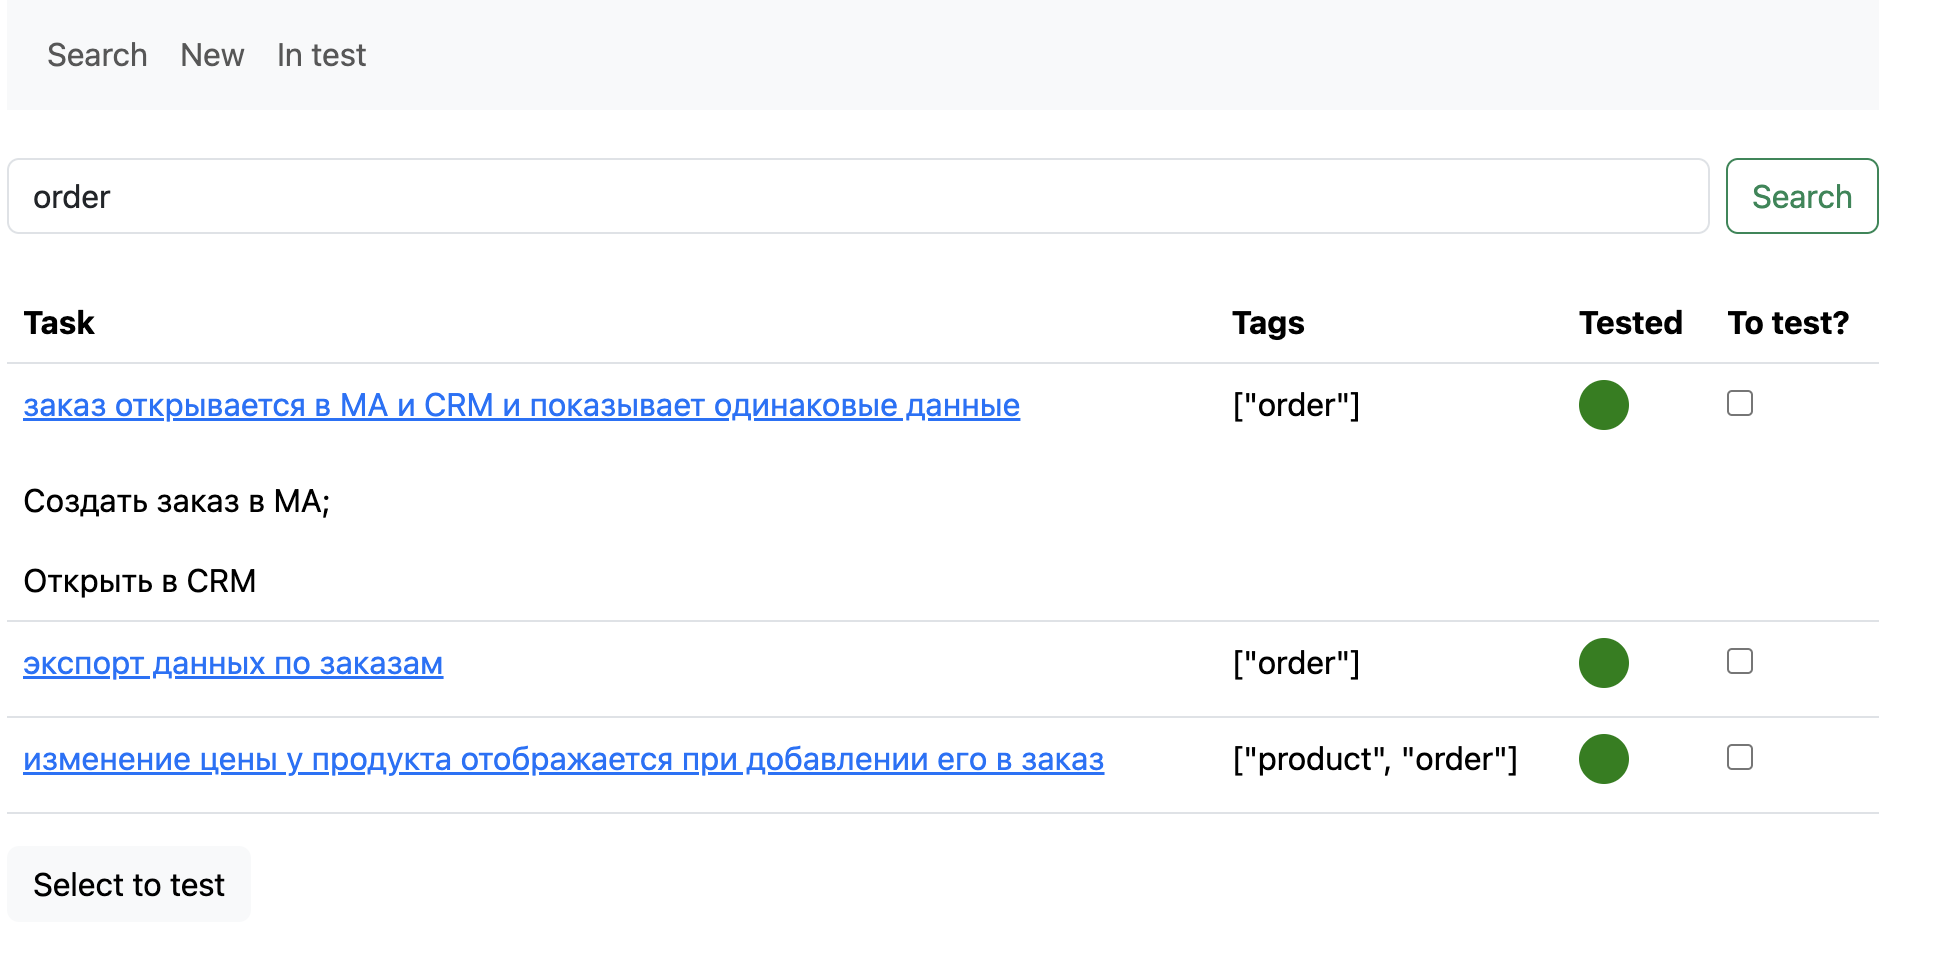
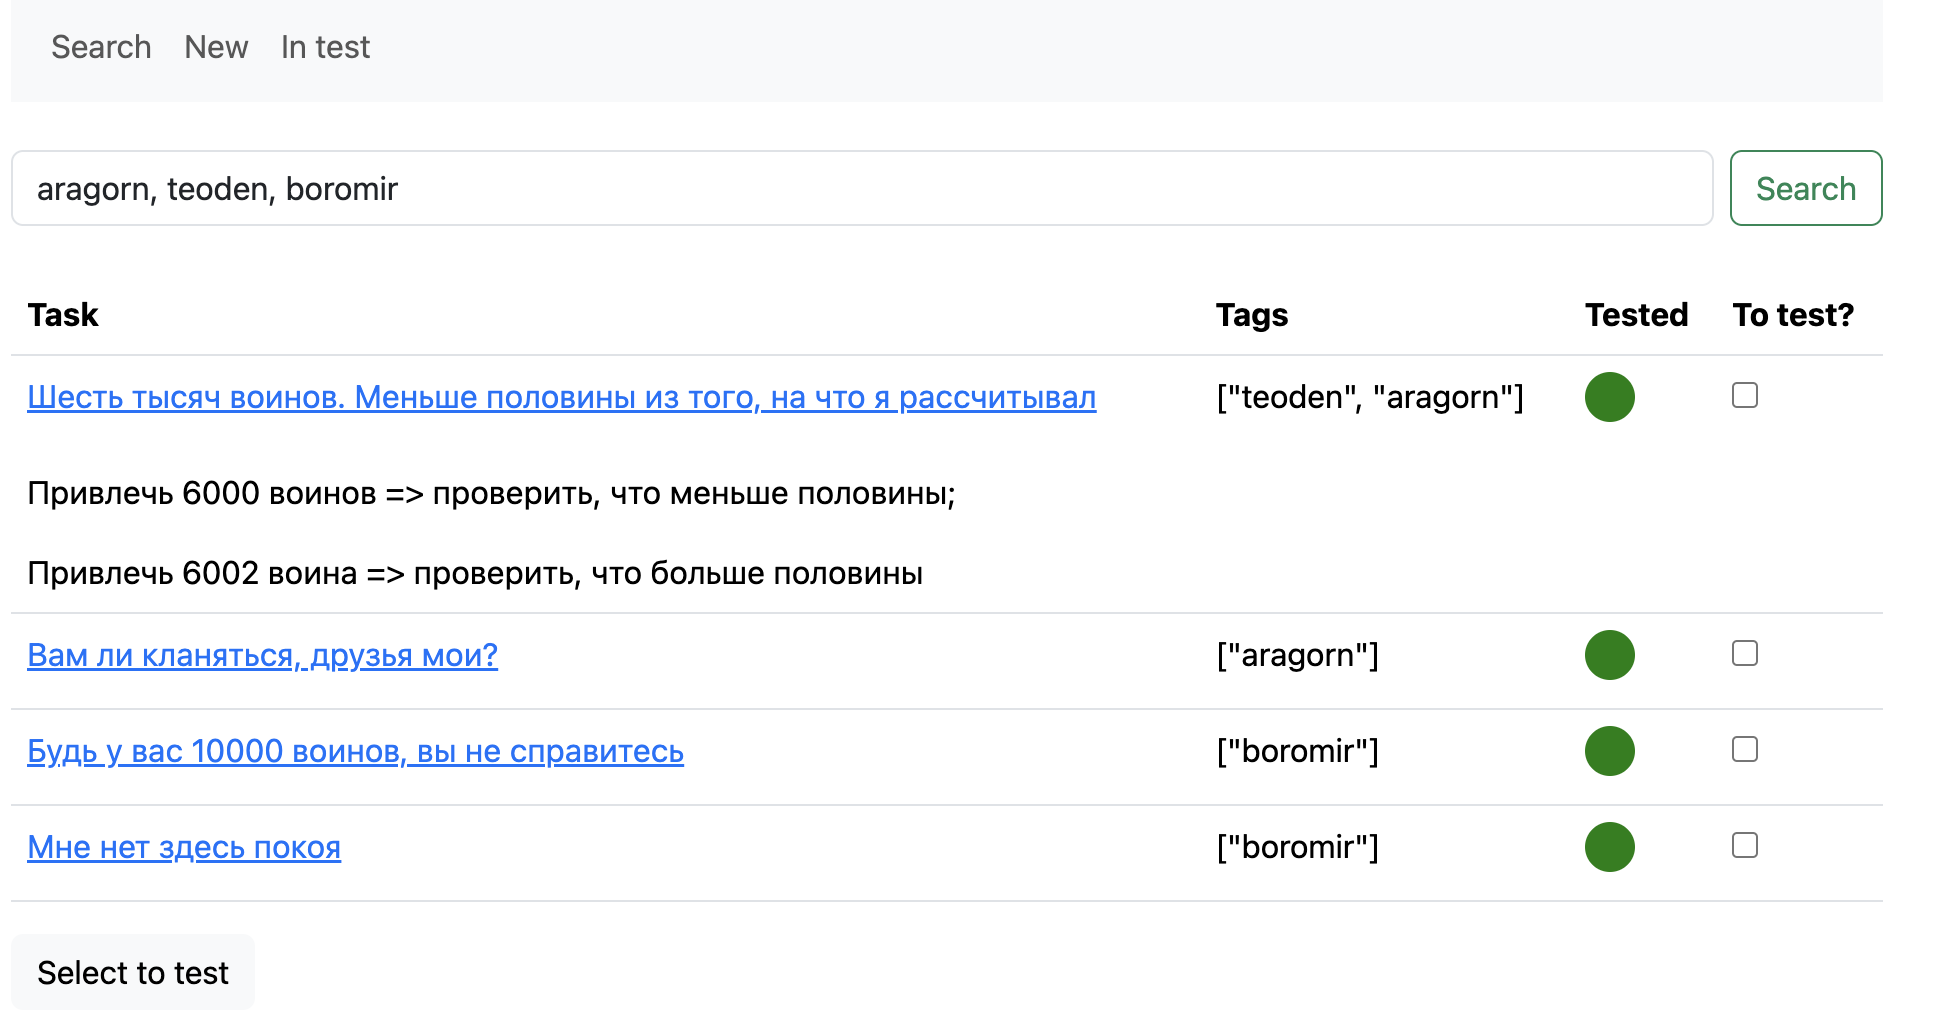
readme

diff --git a/db/seeds.rb b/db/seeds.rb
@@ -7,32 +7,33 @@
 #   Character.create(name: "Luke", movie: movies.first)
 
 CheckItem.new(
-  item_to_check: 'заказ открывается в МА и CRM и показывает одинаковые данные',
-  test_case: "Создать заказ в MA;\nОткрыть в CRM",
+  item_to_check: 'Будь у вас 10000 воинов, вы не справитесь',
+  test_case: "Привлечь 9999 воинов => проверить, что не справимся;\nПривлечь 10000 воинов => проверить, что не справимся;\nПривлечь большее количество воинов => проверить, что справимся",
   to_test: false
 ).save
 CheckItem.new(
-  item_to_check: 'экспорт данных по заказам',
-  test_case: "Отфильтровать;\nЭкспортировать;\nВ отчёте всё ок",
+  item_to_check: 'Шесть тысяч воинов. Меньше половины из того, на что я рассчитывал',
+  test_case: "Привлечь 6000 воинов => проверить, что меньше половины;\nПривлечь 6002 воина => проверить, что больше половины",
   to_test: false
 ).save
 CheckItem.new(
-  item_to_check: 'изменение цены у продукта отображается при добавлении его в заказ',
-  test_case: "Изменить цену у продукта в МА;\nСоздать заказ и добавить туда продукт;\nУбдиться, что у него соответствующая цена",
+  item_to_check: 'Мне нет здесь покоя',
+  test_case: "Находясь здесь, убедиться, что покоя нет;\nПерейти в другое место, убедиться, что покой есть",
   to_test: false
 ).save
 CheckItem.new(
-  item_to_check: 'продукт создаётся и виден как в МА так и в CRM',
-  test_case: "Создать продукт в МА;\nЗайти в CRM и увидеть продукт",
+  item_to_check: 'Вам ли кланяться, друзья мои?',
+  test_case: "Проверить, что при соблюдении всех условий хоббитам не надо кланяться;",
   to_test: false
 ).save
 
-Tag.new(tag: 'product').save
-Tag.new(tag: 'order').save
+Tag.new(tag: 'teoden').save
+Tag.new(tag: 'boromir').save
+Tag.new(tag: 'aragorn').save
 
 CheckItemTag.new(check_item_id: 1, tag_id: 2).save
-CheckItemTag.new(check_item_id: 2, tag_id: 2).save
+CheckItemTag.new(check_item_id: 2, tag_id: 1).save
+CheckItemTag.new(check_item_id: 2, tag_id: 3).save
 CheckItemTag.new(check_item_id: 3, tag_id: 2).save
-CheckItemTag.new(check_item_id: 3, tag_id: 1).save
-CheckItemTag.new(check_item_id: 4, tag_id: 1).save
+CheckItemTag.new(check_item_id: 4, tag_id: 3).save
 
